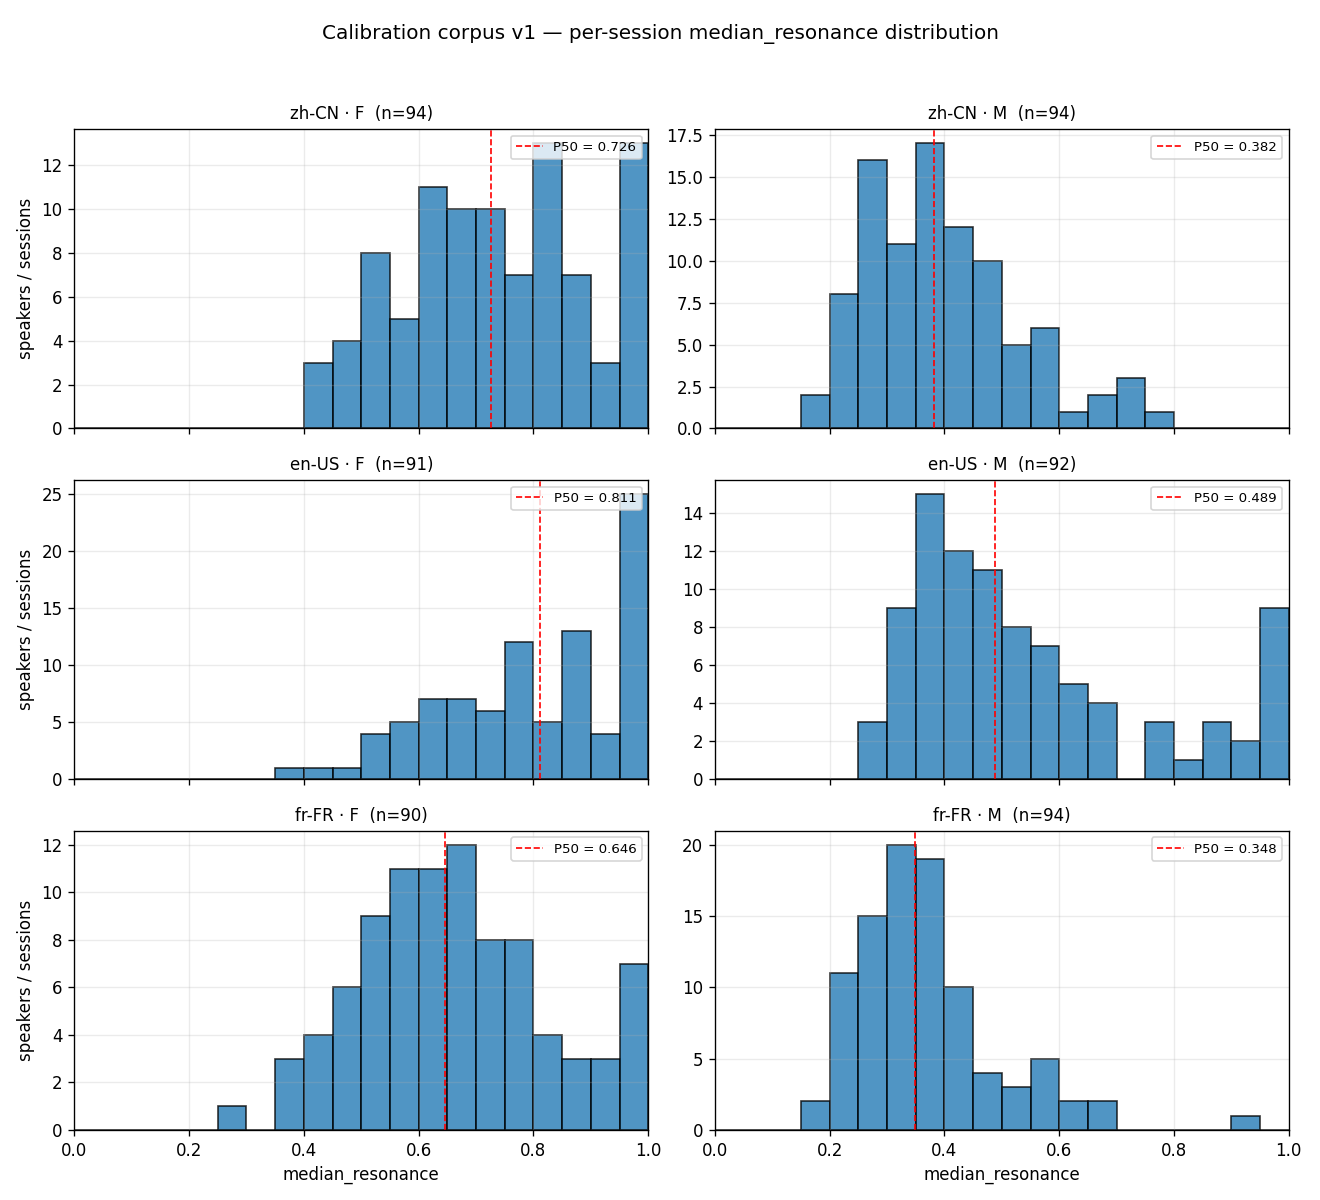
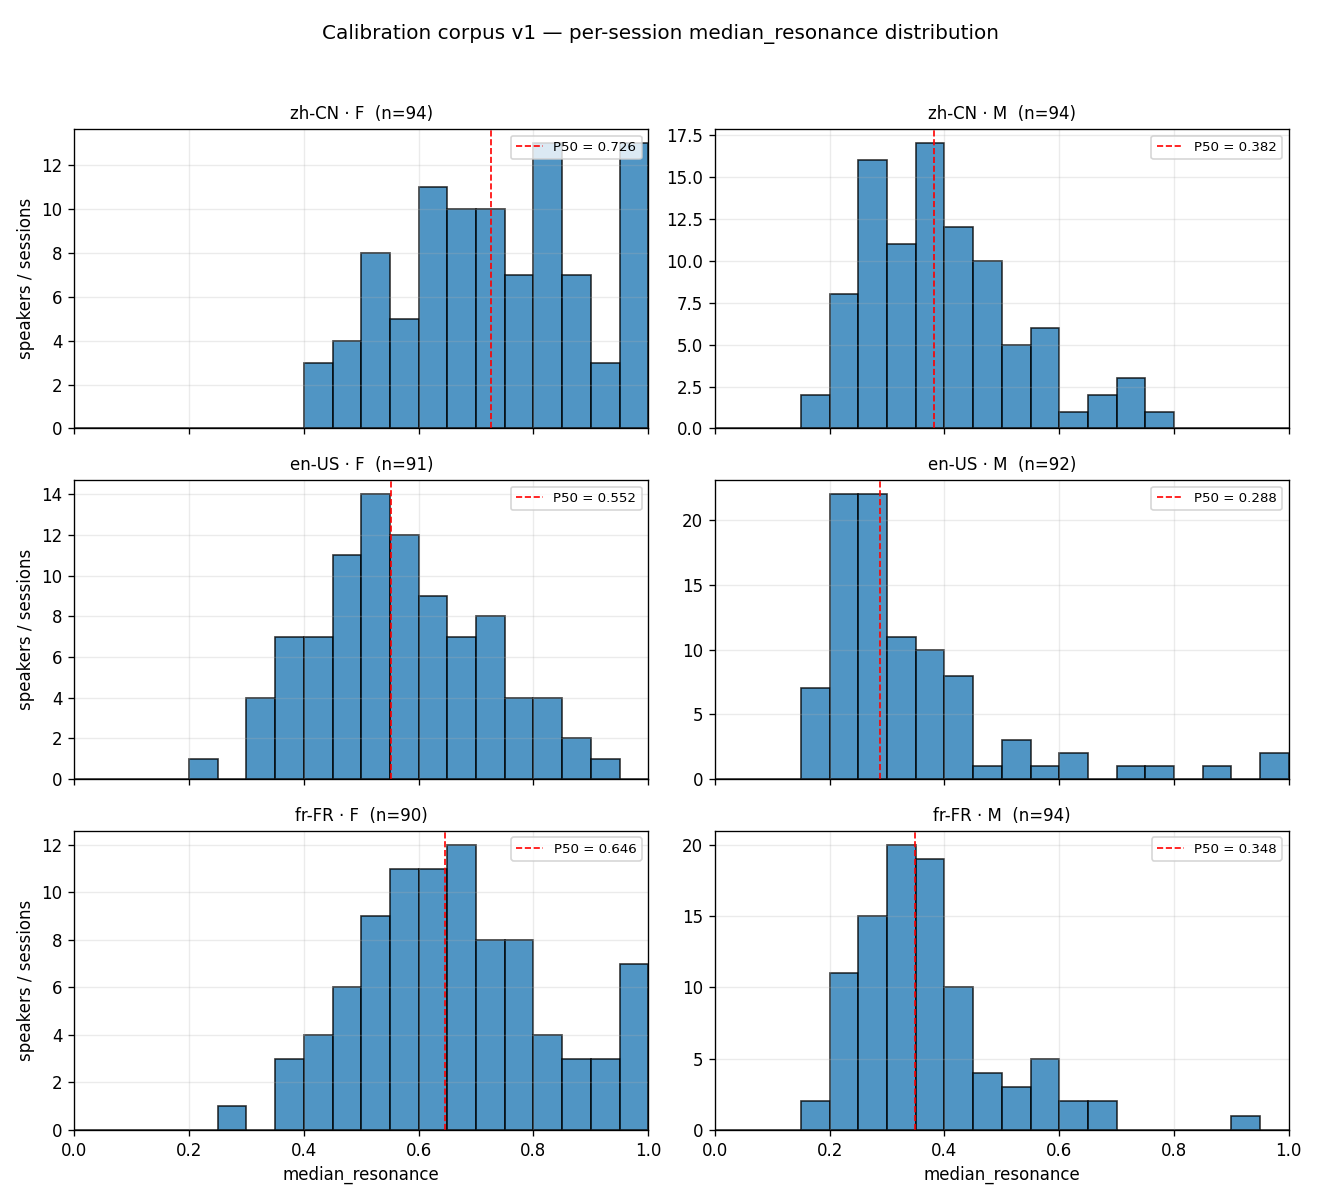
chore(calibration): regenerate calibration_v1 v1 reports for en-US
Re-runs analyze + pack + aggregate against the new 5500 Hz-baked
stats.json (committed in 8814c75) on the same 183 LibriSpeech sessions
that produced the v0 baseline.  zh + fr aggregates unchanged (their
stats files weren't touched); en rows now show the post-retrain
distribution.

aggregate.csv en-US (was → now):
  en-US_F  P50 0.811 → 0.552  P75 0.987 → 0.682  sat 24/91 → 0/91
  en-US_M  P50 0.489 → 0.288  P75 0.639 → 0.385  sat  7/92 → 2/92

per_vowel_en-US_{F,M}.csv shifted accordingly; histograms.png regenerated.

diff --git a/tests/reports/calibration_v1/README.md b/tests/reports/calibration_v1/README.md
@@ -1,6 +1,6 @@
 # Calibration corpus v1 — resonance%% empirical distribution
 
-_Generated 2026-05-06T22:38:00.660195+00:00 from `/mnt/d/project_vocieduck/calibration_v1`._
+_Generated 2026-05-07T05:19:47.721644+00:00 from `/mnt/d/project_vocieduck/calibration_v1`._
 
 ## Provenance
 
@@ -23,8 +23,8 @@ Engine C sidecar @ `localhost:8001`, faithful re-emission of
 
 | Bucket | n | P5 | P25 | P50 | P75 | P95 | mean | std | F0 P50 (Hz) |
 | --- | ---:| ---:| ---:| ---:| ---:| ---:| ---:| ---:| ---:|
-| en-US · F | 91 | 0.525 | 0.688 | 0.811 | 0.987 | 1.000 | 0.804 | 0.164 | 197 |
-| en-US · M | 92 | 0.328 | 0.381 | 0.489 | 0.639 | 1.000 | 0.546 | 0.210 | 114 |
+| en-US · F | 91 | 0.351 | 0.458 | 0.552 | 0.682 | 0.834 | 0.568 | 0.147 | 197 |
+| en-US · M | 92 | 0.193 | 0.238 | 0.288 | 0.385 | 0.675 | 0.339 | 0.164 | 114 |
 | fr-FR · F | 90 | 0.429 | 0.547 | 0.646 | 0.752 | 0.960 | 0.659 | 0.159 | 209 |
 | fr-FR · M | 94 | 0.229 | 0.294 | 0.348 | 0.421 | 0.601 | 0.371 | 0.123 | 118 |
 | zh-CN · F | 94 | 0.490 | 0.616 | 0.726 | 0.849 | 1.000 | 0.734 | 0.160 | 230 |